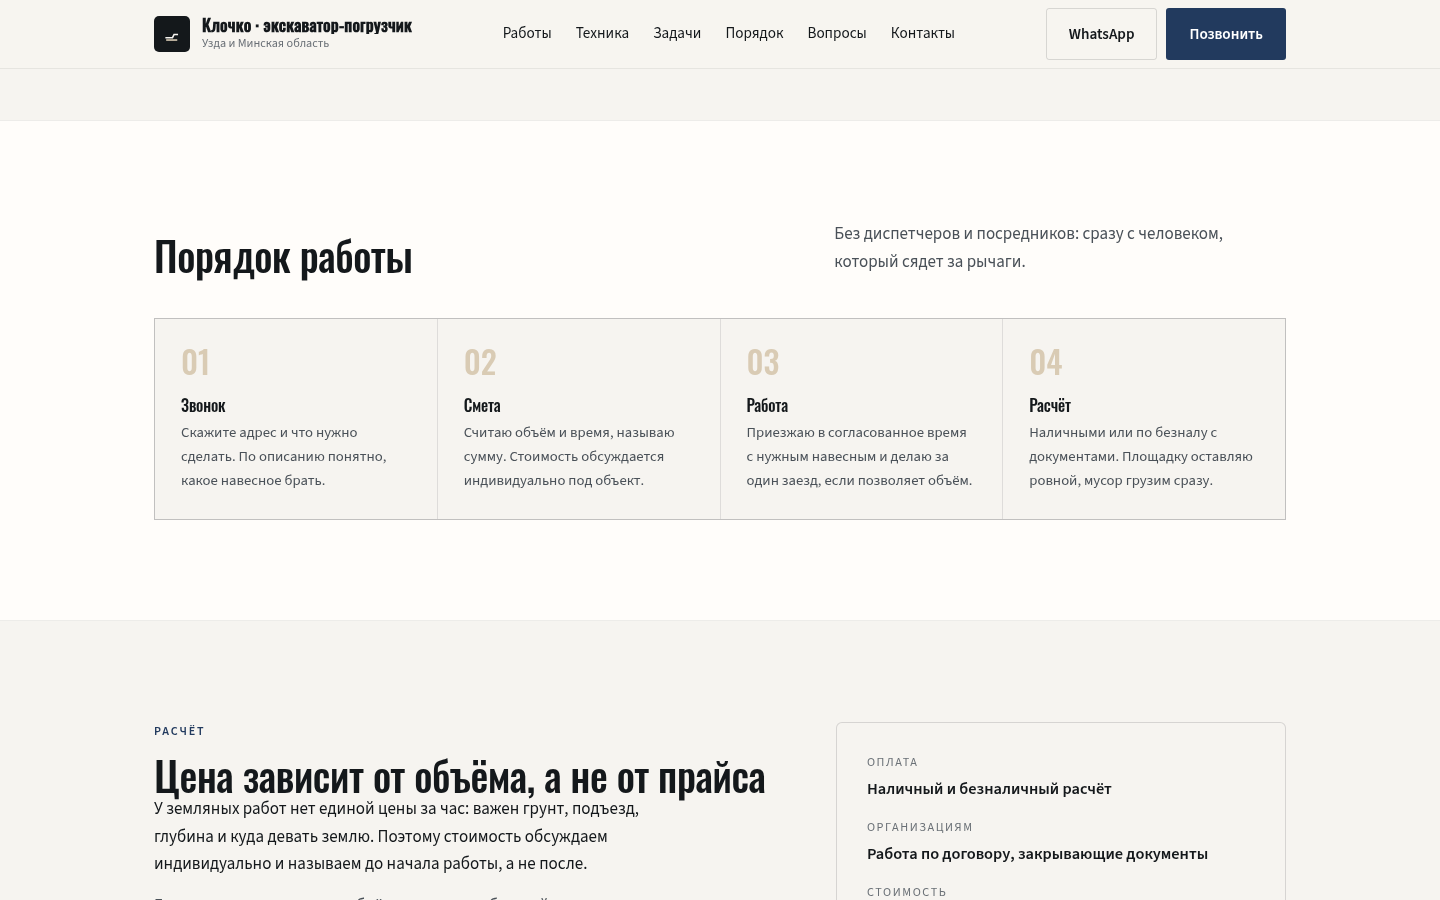
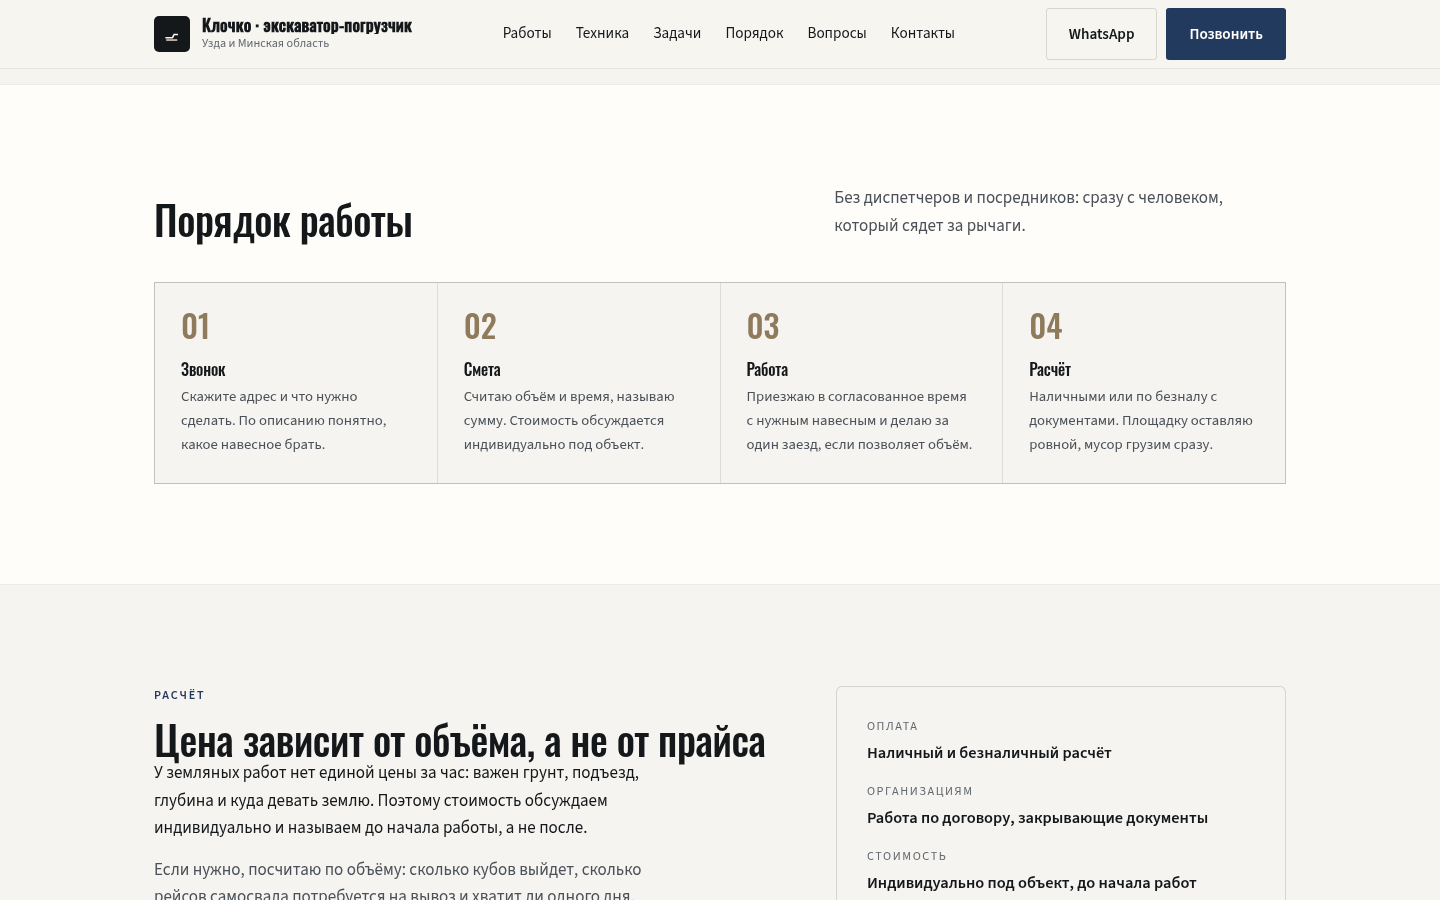
fix: фото в блоке «Техника» в кадре 16/10 без обрезки машины

diff --git a/a2.html b/a2.html
@@ -15,7 +15,7 @@
 
 <section class="blk alt" id="machine"><div class="wrap mach">
   <figure>
-    <img src="img/machine-sq.jpg" alt="Экскаватор-погрузчик: фронтальный ковш, обратная лопата и бур на одной машине" width="900" height="900" loading="lazy">
+    <img src="img/machine.jpg" alt="Экскаватор-погрузчик: фронтальный ковш, обратная лопата и бур на одной машине" width="1400" height="716" loading="lazy">
     <figcaption>Экскаватор-погрузчик на базе трактора с фронтальным ковшом и задней обратной лопатой. Фото техники заказчика.</figcaption>
   </figure>
   <div>

diff --git a/index.html b/index.html
@@ -68,7 +68,7 @@
 
 <section class="blk alt" id="machine"><div class="wrap mach">
   <figure>
-    <img src="img/machine-sq.jpg" alt="Экскаватор-погрузчик: фронтальный ковш, обратная лопата и бур на одной машине" width="900" height="900" loading="lazy">
+    <img src="img/machine.jpg" alt="Экскаватор-погрузчик: фронтальный ковш, обратная лопата и бур на одной машине" width="1400" height="716" loading="lazy">
     <figcaption>Экскаватор-погрузчик на базе трактора с фронтальным ковшом и задней обратной лопатой. Фото техники заказчика.</figcaption>
   </figure>
   <div>

diff --git a/style.css b/style.css
@@ -85,7 +85,7 @@ a:focus-visible,button:focus-visible,summary:focus-visible{outline:2px solid var
 /* техника */
 .mach{display:grid;grid-template-columns:minmax(0,6fr) minmax(0,6fr);gap:clamp(24px,4vw,60px);align-items:center}
 .mach figure{margin:0}
-.mach img{width:100%;aspect-ratio:1/1;object-fit:cover;border-radius:var(--r)}
+.mach img{width:100%;aspect-ratio:16/10;object-fit:cover;object-position:52% 50%;border-radius:var(--r)}
 .mach figcaption{font-size:.82rem;color:var(--ink3);margin-top:10px}
 .mach h2{margin-bottom:14px}
 .mach p{color:var(--ink2)}
